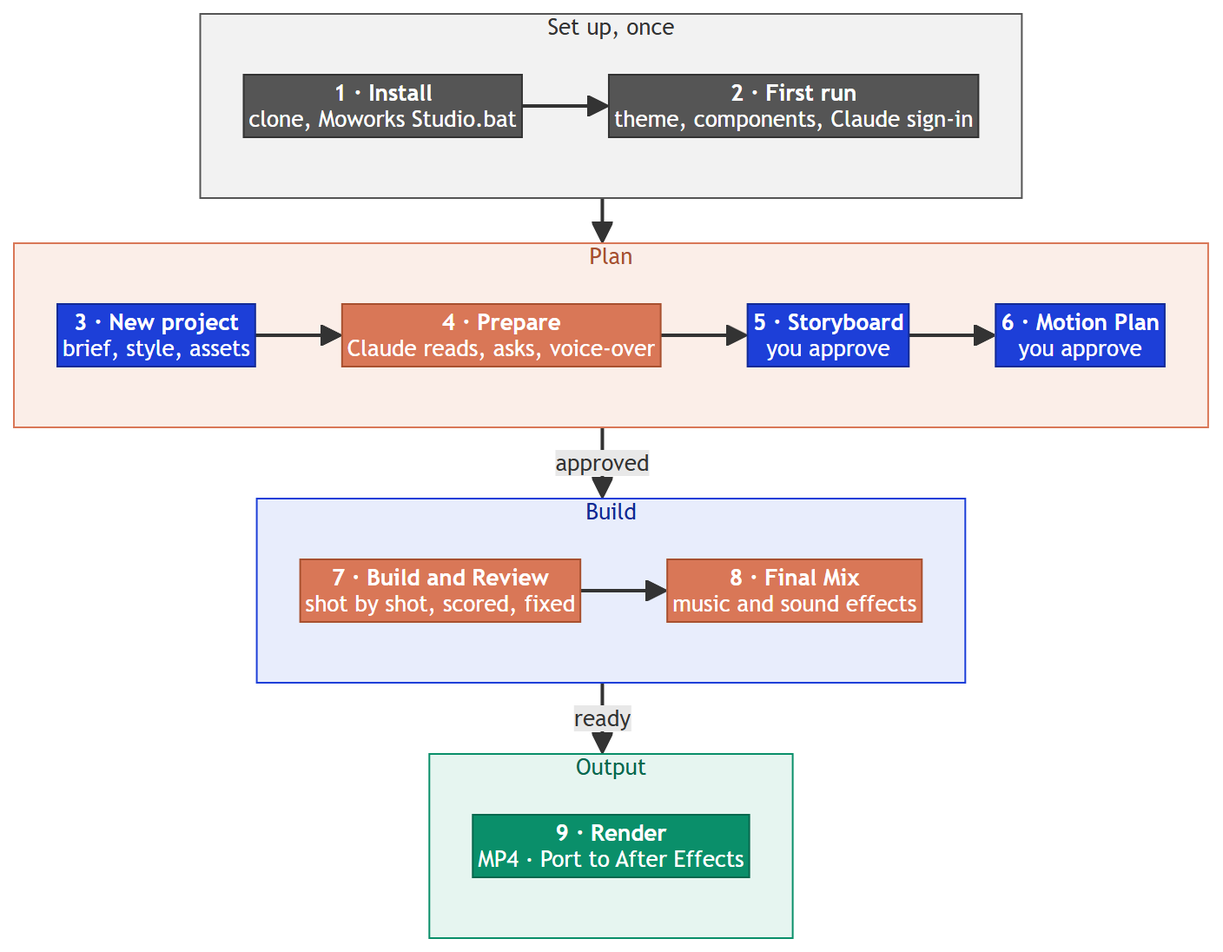
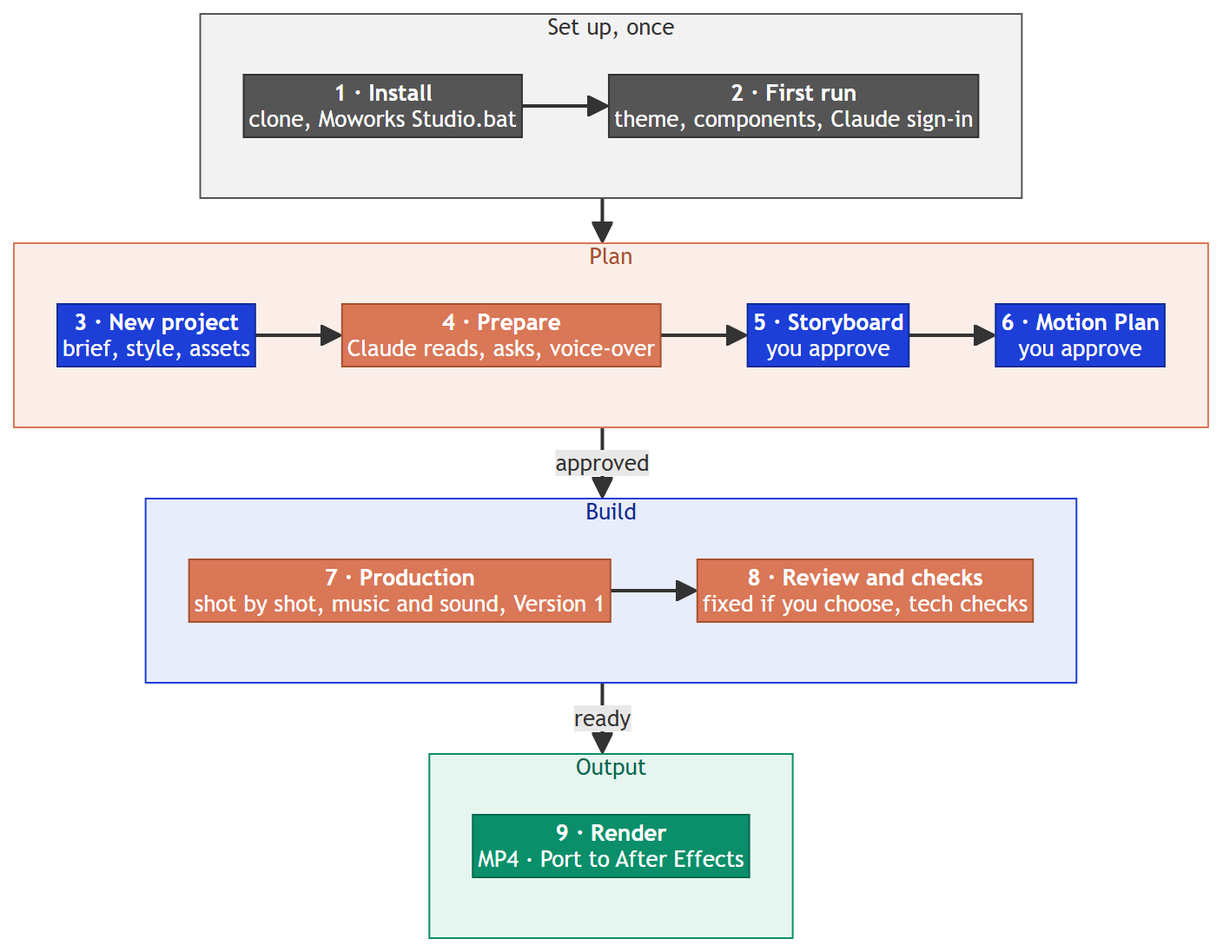
Bug fixes

Changed region(s): [[0.1562, 0.5584, 0.5, 0.6825], [0.5312, 0.5584, 0.8438, 0.6825]]

diff --git a/docs/README.vi.md b/docs/README.vi.md
@@ -8,8 +8,8 @@
   <img src="https://img.shields.io/badge/version-0.8.214.3-1d3fd8" alt="version 0.8.214.3">
   <img src="https://img.shields.io/badge/Claude-Opus_5.5_·_Sonnet_5.5-d97757" alt="Claude Opus 5.5 và Sonnet 5.5">
   <img src="https://img.shields.io/badge/platform-Windows%2010%20%7C%2011-555" alt="Windows 10 | 11">
-  <img src="https://img.shields.io/badge/film_styles-126_từ_7_tác_giả-0a7" alt="126 film style từ 7 tác giả">
-  <img src="https://img.shields.io/badge/library-895_motion_·_448_block_·_168_thuật_ngữ-0a7" alt="Motion Library: 895 motion, 448 block, 168 thuật ngữ chuyển động">
+  <img src="https://img.shields.io/badge/film_styles-127_từ_7_tác_giả-0a7" alt="127 film style từ 7 tác giả">
+  <img src="https://img.shields.io/badge/library-889_motion_·_454_block_·_168_thuật_ngữ-0a7" alt="Motion Library: 889 motion, 454 block, 168 thuật ngữ chuyển động">
   <img src="https://img.shields.io/badge/export-MP4_·_MOV_·_WebM_·_After_Effects-8a2be2" alt="MP4, MOV, WebM và After Effects">
 </p>
 
@@ -29,9 +29,9 @@
 <p align="center"><sub>Phim mẫu làm bằng app. Hàng trên: ra mắt chiếc đèn (Launch · style của HeyGen) · đồng hồ báo thức (Character · style của HeyGen) · đồng hồ mặt trời (Explainer · style của HeyGen).<br>Hàng dưới: khu vườn qua những con số (Data · style của HeyGen) · trạm xe buýt (Isometric Picture Book · style của Lemomo) · thành phố neon (Music video · style của HeyGen). Xem thêm ở <a href="#làm-bằng-app">Làm bằng app</a>.</sub></p>
 
 Moworks Studio là ứng dụng máy tính để làm phim motion graphic cùng Claude. Bạn viết brief, đưa chất liệu (thiết kế, PSD, deck, ảnh,
-nhạc, kịch bản lời đọc) và chọn một trong 126 film style. Claude lên kế hoạch cho phim, vẽ storyboard để bạn duyệt và viết Motion Plan
-bằng số liệu; sau đó app dựng phim từng shot bằng code, tự review và chấm điểm, trộn nhạc và hiệu ứng âm thanh, kiểm tra kỹ thuật và xuất
-phim ra MP4, MOV hoặc WebM. Phim ở phần lớn các style còn xuất được sang After Effects thành layer chỉnh sửa được.
+nhạc, kịch bản lời đọc) và chọn một trong 127 film style. Claude lên kế hoạch cho phim, vẽ storyboard để bạn duyệt và viết Motion Plan
+bằng số liệu; sau đó app dựng phim từng shot bằng code, thêm nhạc và hiệu ứng âm thanh và đưa bạn Version 1 để xem. Claude review và sửa
+nếu bạn chọn, app kiểm tra kỹ thuật rồi xuất phim ra MP4, MOV hoặc WebM. Phim ở phần lớn các style còn xuất được sang After Effects thành layer chỉnh sửa được.
 
 **Sửa phim ngay trên khung hình.** Trong Editor, bấm vào chữ bất kỳ trên khung hình để sửa tại chỗ, cả font, cỡ chữ và màu (mỗi lần sửa
 là một bước có thể hoàn tác). Hoặc bấm **Pin a note** (N), chấm một điểm hay kéo một khung trên hình rồi ghi cần sửa gì ở đó: ghi chú
@@ -66,7 +66,7 @@ Phần render dùng engine mã nguồn mở HyperFrames, nguyên như bản phá
 Mọi film style đi theo cùng một quy trình. Mỗi bước để lại một file trong dự án; bước sau chỉ chạy khi bước trước đã xong hoặc được bạn
 bỏ qua.
 
-<p align="center"><img src="images/diagram-workflow.vi.png" width="560" alt="Quy trình: Cài đặt một lần (1 Cài app, 2 Lần đầu mở) → Lên kế hoạch (3 New project, 4 Prepare, 5 Storyboard bạn duyệt, 6 Motion Plan bạn duyệt) → Dựng phim (7 Build và Review, 8 Final Mix) → Thành phẩm (9 Render, MP4 hoặc Port to After Effects)"></p>
+<p align="center"><img src="images/diagram-workflow.vi.png" width="560" alt="Quy trình: Cài đặt một lần (1 Cài app, 2 Lần đầu mở) → Lên kế hoạch (3 New project, 4 Prepare, 5 Storyboard bạn duyệt, 6 Motion Plan bạn duyệt) → Dựng phim (7 Production, 8 Review and checks) → Thành phẩm (9 Render, MP4 hoặc Port to After Effects)"></p>
 
 Màu: xám = cài đặt · cam = Claude và app thực hiện · xanh dương = bạn viết, chọn hoặc duyệt · xanh lá = thành phẩm.
 
@@ -74,18 +74,19 @@ Màu: xám = cài đặt · cam = Claude và app thực hiện · xanh dương =
 |---|---|---|
 | **Brief** | New project: tiêu đề, film style, Brand Kit, nhân vật, định dạng (khổ hình, số khung hình mỗi giây, độ dài), model Claude và mức effort, brief và chất liệu của bạn | viết và chọn |
 | **Prepare** | Claude đọc brief và chất liệu, viết `BRIEF.md`. Khi brief và style mâu thuẫn (style phim câm mà có lời đọc, khổ 4:3 so với 4:5…), Claude dừng lại hỏi, kèm các phương án và đề xuất | trả lời |
-| **Lời đọc** *(tuỳ chọn)* | ElevenLabs, hoặc Kokoro miễn phí ngay trên máy (không có tiếng Việt), đọc kịch bản; Whisper canh thời gian từng chữ để shot rơi đúng lời (tải thêm tuỳ chọn, app đề xuất ở lần đầu) | chọn giọng |
+| **Lời đọc** *(tuỳ chọn)* | ElevenLabs, hoặc Kokoro miễn phí ngay trên máy (không có tiếng Việt), đọc kịch bản; Whisper canh thời gian từng chữ để shot rơi đúng lời | chọn giọng |
 | **Storyboard** | Một phương án storyboard vẽ thành bảng, từng shot, ghi lý do của từng shot (thêm phương án khi bạn yêu cầu) | duyệt hoặc góp ý |
-| **Motion Plan** | Chuyển động của từng shot bằng số: thời điểm, quãng đường, ease, mốc âm thanh. Hộp duyệt cho biết thời gian dựng và lượng dùng Claude ước tính | duyệt và dựng |
-| **Build** | Claude dựng phim bằng code, từng shot; mỗi shot được lint và kiểm tra ngay khi xong | theo dõi |
-| **Review** | Claude tự xem phim của mình, chấm điểm trên 10 và sửa những gì tìm thấy, qua nhiều vòng | đọc điểm |
-| **Final Mix** | Nhạc (3 bài miễn phí từ Mixkit để chọn, hoặc nhạc của bạn) và hiệu ứng âm thanh đặt theo hình, trộn về −16 LUFS | chọn |
-| **Tech checks** | Kiểm độ tương phản, chữ chồng nhau, khung đứng hình, âm lượng và file, báo bằng lời dễ hiểu | đọc |
+| **Motion Plan** | Chuyển động của từng shot bằng số: thời điểm, quãng đường, ease, mốc âm thanh. Hộp duyệt cho biết thời gian dựng ước tính | duyệt và dựng |
+| **Production** | Claude dựng phim bằng code, từng shot; mỗi shot được lint và kiểm tra ngay khi xong. Nhạc (3 bài miễn phí từ Mixkit để chọn, hoặc nhạc của bạn) và hiệu ứng âm thanh đặt theo hình, trộn về −16 LUFS. Bạn nhận **Version 1** đã render để xem | theo dõi |
+| **Review and checks** | Một câu hỏi: **Fix mistakes only**, **Fix mistakes and improve it** (Claude tự xem phim, chấm điểm trên 10 và sửa những gì tìm thấy, qua nhiều vòng) hoặc **No, I'm happy with it**. Tech checks báo độ tương phản, chữ chồng nhau, khung đứng hình, âm lượng và file bằng lời dễ hiểu | chọn và đọc |
 | **Render** | MP4 (H.264: Standard cho web và mạng xã hội, hoặc High), MOV (QuickTime) hoặc WebM, kèm một bản Smooth để phát mượt trong Editor | render |
 | **After Effects** | **Port to After Effects** dựng project AE với text layer và shape layer thật ở những style cho phép | port |
 
 **Editor** phát phim đúng từng khung hình như khi render: danh sách shot và quy trình ở bên trái, timeline dưới khung hình, Claude ở
 cột chat bên phải. Bấm vào một phần tử trong phim để Claude nhắm vào nó, hoặc tự sửa chữ của nó bằng tay.
+
+Trên timeline, Narration, SFX và Music mỗi lane có một thanh âm lượng, kéo là nghe ngay, và **Ctrl+Z** trả lại tiếng vừa kéo hoặc vừa xoá.
+**Music & Sound** đổi nhạc và hiệu ứng âm thanh, còn **Balance the sound again** đưa mọi mức tiếng về theo luật của app.
 
 <p align="center"><img src="images/desk-editor.jpg" alt="Editor (The Desk): shot và quy trình bên trái, phim trong trình phát, timeline, và Claude thuật lại từng bước bên phải"><br><sub>Editor (The Desk): shot và quy trình bên trái, phim trong trình phát, timeline, và Claude thuật lại từng bước bên phải</sub></p>
 
@@ -117,7 +118,7 @@ Appearance.
 <td width="50%" valign="top"><img src="images/studio-new-project.jpg" alt="The Studio · New project"><br><sub>The Studio · New project</sub></td>
 </tr>
 <tr>
-<td width="50%" valign="top"><img src="images/desk-film-styles.jpg" alt="The Desk · Film Styles, 126 style theo tác giả"><br><sub>The Desk · Film Styles, 126 style theo tác giả</sub></td>
+<td width="50%" valign="top"><img src="images/desk-film-styles.jpg" alt="The Desk · Film Styles, theo tác giả"><br><sub>The Desk · Film Styles, theo tác giả</sub></td>
 <td width="50%" valign="top"><img src="images/studio-film-styles.jpg" alt="The Studio · Film Styles thành từng thùng đĩa theo tác giả"><br><sub>The Studio · Film Styles thành từng thùng đĩa theo tác giả</sub></td>
 </tr>
 </table>
@@ -130,6 +131,7 @@ giấy phép và đúng commit nguồn. File style của bên thứ ba được 
 | Bộ | Tác giả | Số style | Giấy phép | Nguồn |
 |---|---|---|---|---|
 | **General Style** | Moworks | 1 | bộ luật riêng của app | viết lại cho app từ quy trình của bộ kit Moworks Motion |
+| **Map Explainer** | Moworks | 1: bản đồ giấy và mặt đất thật dưới một camera liền, bút đỏ vẽ lên trên | bộ luật riêng của app, dữ liệu bản đồ từ [Natural Earth](https://www.naturalearthdata.com) và [world-atlas](https://github.com/topojson/world-atlas/tree/v2.0.2), ảnh vệ tinh từ [EOX](https://cloudless.eox.at) (CC BY 4.0) | làm riêng cho app; mọi nguồn ở [THIRD-PARTY.md](THIRD-PARTY.md) |
 | **HyperFrames** | HeyGen | 8: Slideshow và bảy loại phim trong skill của HyperFrames (Explainer, Launch, Music video, Data, Vertical, 3D, Character) | Apache-2.0 | [heygen-com/hyperframes @ `4719543`](https://github.com/heygen-com/hyperframes/tree/4719543e972548a261b8354f0a8dada479ae5d93/skills) (v0.8.214) |
 | **Lemo-Opuscar** | Lemomo (LemoLab) | 66 style phim dựng bằng code (các thời kỳ điện ảnh, tư liệu, editorial, dữ liệu…; Memphis Diorama do EianLu đóng góp) | MIT; ảnh mẫu CC BY 4.0 | [lemomo-ai/lemo-opuscar @ `ea34ff9`](https://github.com/lemomo-ai/lemo-opuscar/tree/ea34ff9546f675f9fd65a3c84e869a1da7471ad7) |
 | **mg-styles-15** | Vincentwei1021 | 14 style motion design (style 3D dựng bằng Blender không có trong app) | MIT | [Vincentwei1021/mg-styles-15 @ `49052d8`](https://github.com/Vincentwei1021/mg-styles-15/tree/49052d80bfaf9fa8412cc9710530e5e95a3b8d8c) |
@@ -181,9 +183,9 @@ Mọi style còn theo hai bộ luật chung của app: **phim luôn sống độ
 | **Projects** | Các phim của bạn, mới nhất ở trên; mỗi phim mở trong Editor |
 | **Brand Kits** | Màu, font và các thành phần của một thương hiệu, áp cho cả phim. Có sẵn 13 frame preset của HyperFrames; bạn tự tạo Brand Kit từ cả thư mục của thương hiệu (PDF, PowerPoint, ảnh, font, AI, PSD, ZIP) rồi kiểm lại trước khi dùng; phim làm từ kit có sẵn logo và font của kit |
 | **Film Styles** | Thư viện style ở trên, kèm phim mẫu, ghi công và huy hiệu AE |
-| **Motion Library** | Thư viện riêng của studio: Motions (895), Blocks (448 block và component) và Vocabulary (168 thuật ngữ chuyển động), xếp theo loại và nhóm. Giấy phép của các nguồn được dùng nằm trong [THIRD-PARTY.md](THIRD-PARTY.md) |
+| **Motion Library** | Thư viện riêng của studio: Motions (889), Blocks (454 block và component) và Vocabulary (168 thuật ngữ chuyển động), xếp theo loại và nhóm. Giấy phép của các nguồn được dùng nằm trong [THIRD-PARTY.md](THIRD-PARTY.md) |
 | **Characters** | Nhân vật của dự án: vẽ bằng Character maker, hoặc lấy từ các rig nhân vật của tác giả Anidoodle |
-| **Settings** | General (tài khoản Claude, thư mục dự án, giao diện, lời đọc, render), Director (model và effort của Claude), System (thành phần và tình trạng máy), Update (cả Uninstall) |
+| **Settings** | General (tài khoản Claude, thư mục dự án, giao diện, render), Director (model và effort của Claude), System (thành phần, lời đọc, backup và tình trạng máy), Update (cả Uninstall) |
 
 <table>
 <tr>
@@ -255,16 +257,17 @@ Một phim 30 giây, từ brief tới MP4:
    marathon Olympic 1904, khổ 4:5, lời đọc tiếng Việt"). Thêm Brand Kit, nhân vật và chất liệu nếu có. Bấm **Create project**.
 2. **Prepare.** Claude đọc hết và có thể dừng lại hỏi ("Style này là phim câm; giữ lời đọc hay dùng thẻ chữ?"). Trả lời trong chat; Claude
    viết `BRIEF.md`.
-3. **Lời đọc.** Màn Voice mở sẵn kịch bản. Chọn giọng và tạo lời đọc; Whisper canh thời gian từng chữ tự động (tải thêm tuỳ
-   chọn, khoảng 1,7 GB, app đề xuất ở lần đầu) và storyboard tự bắt đầu.
+3. **Lời đọc.** Màn Voice mở sẵn kịch bản. Chọn giọng và tạo lời đọc; Whisper canh thời gian từng chữ tự động
+   và storyboard tự bắt đầu.
 4. **Storyboard.** Xem bảng. Góp ý một khung (`@Panel_3: cho người chạy nhỏ lại`) hoặc duyệt.
-5. **Motion Plan.** Kiểm thời gian và chuyển động của từng shot. **Approve and build** cho biết thời gian và lượng dùng ước tính.
-6. **Build, Review, Final Mix, Tech checks** chạy nối tiếp nhau. Ô quy trình cho biết bước nào đang chạy và còn bao lâu; chat cho biết
+5. **Motion Plan.** Kiểm thời gian và chuyển động của từng shot. **Approve and build** cho biết thời gian ước tính.
+6. **Production** tự chạy: dựng phim, nhạc và âm thanh, rồi Version 1. Ô quy trình cho biết bước nào đang chạy và còn bao lâu; chat cho biết
    Claude đang làm gì.
-7. **Play** phim trong Editor. Nhờ Claude sửa trong chat (bấm vào một phần tử trước để chỉ đúng chỗ), hoặc tự sửa chữ bằng tay.
-8. **Render** MP4, và **Port to After Effects** nếu huy hiệu của style cho phép.
+7. **Xem Version 1** và trả lời một câu: Claude sửa lỗi, sửa và làm hay hơn, hay giữ nguyên?
+8. **Play** phim trong Editor. Nhờ Claude sửa trong chat (bấm vào một phần tử trước để chỉ đúng chỗ), hoặc tự sửa chữ bằng tay.
+9. **Render** MP4, và **Port to After Effects** nếu huy hiệu của style cho phép.
 
-<p align="center"><img src="images/studio-editor.jpg" alt="Một phim đã xong trong Editor (The Studio): năm bước dọc phía trên, ghi chú của Claude từ Review và Final Mix bên phải"><br><sub>Một phim đã xong trong Editor (The Studio): năm bước dọc phía trên, ghi chú của Claude từ Review và Final Mix bên phải</sub></p>
+<p align="center"><img src="images/studio-editor.jpg" alt="Một phim đã xong trong Editor (The Studio): các bước dọc phía trên, ghi chú của Claude bên phải"><br><sub>Một phim đã xong trong Editor (The Studio): các bước dọc phía trên, ghi chú của Claude bên phải</sub></p>
 
 Để tham khảo: một phim 34 giây ở một style Lemo-Opuscar mất 1 giờ 17 phút từ lúc Create tới MP4 hoàn chỉnh, trong đó 44 phút tính từ
 **Approve and build**; lượng dùng Claude cho cả phim tương đương khoảng 13 USD theo giá API.
@@ -329,7 +332,7 @@ Các giới hạn đã biết nằm ở [KNOWN-ISSUES.md](KNOWN-ISSUES.md).
   tải chúng lên.
 - **Backup của app:** tắt, trừ khi một thư mục backup (`storage.backupRoot`) được đặt trong cài đặt cục bộ của máy này.
 - **Không telemetry.** Telemetry và kiểm tra cập nhật của HyperFrames bị tắt; app không gửi dữ liệu sử dụng. Truy cập mạng chỉ dành cho các
-  dịch vụ bạn dùng (Claude, dịch vụ giọng đọc, Mixkit và Openverse khi bạn cần nhạc hoặc hiệu ứng âm thanh, và việc tải thành phần).
+  dịch vụ bạn dùng (Claude, dịch vụ giọng đọc, Mixkit và Openverse khi bạn cần nhạc hoặc hiệu ứng âm thanh, EOX khi phim Map Explainer lấy ảnh vệ tinh, và việc tải thành phần).
 
 ## Dành cho người phát triển
 

diff --git a/docs/README.md b/docs/README.md
@@ -8,8 +8,8 @@
   <img src="https://img.shields.io/badge/version-0.8.214.3-1d3fd8" alt="version 0.8.214.3">
   <img src="https://img.shields.io/badge/Claude-Opus_5.5_·_Sonnet_5.5-d97757" alt="Claude Opus 5.5 and Sonnet 5.5">
   <img src="https://img.shields.io/badge/platform-Windows%2010%20%7C%2011-555" alt="Windows 10 | 11">
-  <img src="https://img.shields.io/badge/film_styles-126_from_7_authors-0a7" alt="126 film styles from 7 authors">
-  <img src="https://img.shields.io/badge/library-895_motions_·_448_blocks_·_168_terms-0a7" alt="Motion Library: 895 motions, 448 blocks, 168 motion terms">
+  <img src="https://img.shields.io/badge/film_styles-127_from_7_authors-0a7" alt="127 film styles from 7 authors">
+  <img src="https://img.shields.io/badge/library-889_motions_·_454_blocks_·_168_terms-0a7" alt="Motion Library: 889 motions, 454 blocks, 168 motion terms">
   <img src="https://img.shields.io/badge/export-MP4_·_MOV_·_WebM_·_After_Effects-8a2be2" alt="MP4, MOV, WebM and After Effects">
 </p>
 
@@ -29,9 +29,9 @@
 <p align="center"><sub>Demo films made in the app. Top: a lamp launch (Launch · style by HeyGen) · an alarm clock (Character · style by HeyGen) · a sundial (Explainer · style by HeyGen).<br>Bottom: a garden in numbers (Data · style by HeyGen) · a bus stop (Isometric Picture Book · style by Lemomo) · a neon city (Music video · style by HeyGen). More in <a href="#made-in-the-app">Made in the app</a>.</sub></p>
 
 Moworks Studio is a desktop application for making motion-graphic films with Claude. You write a brief and add your material (artwork,
-PSD, deck, pictures, music, a voice-over script) and choose one of 126 film styles. Claude plans the film, draws a storyboard for you to
-approve and writes a Motion Plan in numbers; then the app builds the film shot by shot in code, reviews and scores it, mixes music and
-sound effects, runs technical checks and renders the film as MP4, MOV or WebM. Films in most styles can also be exported to After
+PSD, deck, pictures, music, a voice-over script) and choose one of 127 film styles. Claude plans the film, draws a storyboard for you to
+approve and writes a Motion Plan in numbers; then the app builds the film shot by shot in code, adds music and sound effects and gives you
+Version 1 to watch. Claude reviews and fixes it if you choose, technical checks run, and the film renders as MP4, MOV or WebM. Films in most styles can also be exported to After
 Effects as editable layers.
 
 **Change the film on the picture itself.** In the Editor, click any words in the frame to edit them on the spot, with their font, size
@@ -67,7 +67,7 @@ mixes the sound and renders. Rendering uses the open-source HyperFrames engine a
 Every film style follows the same pipeline. Each step leaves a file in the project, and nothing moves on until its step is done or you
 skip it.
 
-<p align="center"><img src="images/diagram-workflow.en.png" width="560" alt="Workflow: Set up once (1 Install, 2 First run) → Plan (3 New project, 4 Prepare, 5 Storyboard you approve, 6 Motion Plan you approve) → Build (7 Build and Review, 8 Final Mix) → Output (9 Render, MP4 or Port to After Effects)"></p>
+<p align="center"><img src="images/diagram-workflow.en.png" width="560" alt="Workflow: Set up once (1 Install, 2 First run) → Plan (3 New project, 4 Prepare, 5 Storyboard you approve, 6 Motion Plan you approve) → Build (7 Production, 8 Review and checks) → Output (9 Render, MP4 or Port to After Effects)"></p>
 
 Colours: grey = set-up · orange = Claude and the app · blue = you write, choose or approve · green = output.
 
@@ -75,18 +75,19 @@ Colours: grey = set-up · orange = Claude and the app · blue = you write, choos
 |---|---|---|
 | **Brief** | New project: title, film style, Brand Kit, characters, format (size, frame rate, length), Claude model and effort, the brief and your assets | write and choose |
 | **Prepare** | Claude reads the brief and your assets and writes `BRIEF.md`. When the brief and the style disagree (a silent-film style with a voice-over, 4:3 against 4:5…), it stops and asks, with options and a recommendation | answer |
-| **Voice-over** *(optional)* | ElevenLabs, or Kokoro for free on this computer (no Vietnamese), speaks the script; Whisper times every word so shots land on the words (an optional download, offered the first time) | pick a voice |
+| **Voice-over** *(optional)* | ElevenLabs, or Kokoro for free on this computer (no Vietnamese), speaks the script; Whisper times every word so shots land on the words | pick a voice |
 | **Storyboard** | One storyboard option drawn as a board, shot by shot, with the reason for each shot (another option on request) | approve or comment |
-| **Motion Plan** | Every shot's motion in numbers: timings, distances, easings, sound cues. The approval dialog shows the estimated build time and Claude usage | approve and build |
-| **Build** | Claude builds the film in code, shot by shot; every shot is linted and checked as it lands | watch |
-| **Review** | Claude watches its own film, scores it out of 10 and fixes what it finds, in rounds | read the score |
-| **Final Mix** | Music (three free Mixkit tracks to choose from, or your own) and sound effects placed on the picture, mixed to −16 LUFS | choose |
-| **Tech checks** | Contrast, text overlap, still frames, loudness and file checks, in plain words | read |
+| **Motion Plan** | Every shot's motion in numbers: timings, distances, easings, sound cues. The approval dialog shows the estimated build time | approve and build |
+| **Production** | Claude builds the film in code, shot by shot; every shot is linted and checked as it lands. Music (three free Mixkit tracks to choose from, or your own) and sound effects are placed on the picture and mixed to −16 LUFS. You get **Version 1**, rendered, to watch | watch |
+| **Review and checks** | One question: **Fix mistakes only**, **Fix mistakes and improve it** (Claude watches its own film, scores it out of 10 and fixes what it finds, in rounds) or **No, I'm happy with it**. Tech checks report contrast, text overlap, still frames, loudness and files in plain words | choose and read |
 | **Render** | MP4 (H.264: Standard for web and social, or High), MOV (QuickTime) or WebM, plus a Smooth preview copy for playback in the Editor | render |
 | **After Effects** | **Port to After Effects** builds an AE project with real text and shape layers where the style allows it | port |
 
 The **Editor** plays the film frame by frame as it will render, with the shots and the pipeline on the left, the timeline below the picture
 and Claude in a chat column on the right. Click an element in the film to make it Claude's target, or edit its words by hand.
+
+On the timeline, Narration, SFX and Music each have a level you hear as you drag it, and **Ctrl+Z** brings back a sound you just moved or
+took off. **Music & Sound** changes the music and the effects, and **Balance the sound again** puts every level back by the app's rules.
 
 <p align="center"><img src="images/desk-editor.jpg" alt="The Editor (The Desk): shots and pipeline on the left, the film in the player, the timeline, and Claude's account of each step on the right"><br><sub>The Editor (The Desk): shots and pipeline on the left, the film in the player, the timeline, and Claude's account of each step on the right</sub></p>
 
@@ -117,7 +118,7 @@ The app has two complete themes with the same features; the first start asks whi
 <td width="50%" valign="top"><img src="images/studio-new-project.jpg" alt="The Studio · New project"><br><sub>The Studio · New project</sub></td>
 </tr>
 <tr>
-<td width="50%" valign="top"><img src="images/desk-film-styles.jpg" alt="The Desk · Film Styles, 126 styles by author"><br><sub>The Desk · Film Styles, 126 styles by author</sub></td>
+<td width="50%" valign="top"><img src="images/desk-film-styles.jpg" alt="The Desk · Film Styles, by author"><br><sub>The Desk · Film Styles, by author</sub></td>
 <td width="50%" valign="top"><img src="images/studio-film-styles.jpg" alt="The Studio · Film Styles as crates by author"><br><sub>The Studio · Film Styles as crates by author</sub></td>
 </tr>
 </table>
@@ -130,6 +131,7 @@ licence and the exact source commit. Third-party style files are used as their a
 | Set | Author | Styles | Licence | Source |
 |---|---|---|---|---|
 | **General Style** | Moworks | 1 | the app's own rules | rewritten for the app from the Moworks Motion kit's process |
+| **Map Explainer** | Moworks | 1: a paper map and the real ground under one continuous camera, a red marker on top | the app's own rules, map data from [Natural Earth](https://www.naturalearthdata.com) and [world-atlas](https://github.com/topojson/world-atlas/tree/v2.0.2), satellite pictures from [EOX](https://cloudless.eox.at) (CC BY 4.0) | made for the app; every source in [THIRD-PARTY.md](THIRD-PARTY.md) |
 | **HyperFrames** | HeyGen | 8: Slideshow and the seven film types of HyperFrames' skill (Explainer, Launch, Music video, Data, Vertical, 3D, Character) | Apache-2.0 | [heygen-com/hyperframes @ `4719543`](https://github.com/heygen-com/hyperframes/tree/4719543e972548a261b8354f0a8dada479ae5d93/skills) (v0.8.214) |
 | **Lemo-Opuscar** | Lemomo (LemoLab) | 66 code-built film styles (cinema eras, documentary, editorial, data…; Memphis Diorama contributed by EianLu) | MIT; demo stills CC BY 4.0 | [lemomo-ai/lemo-opuscar @ `ea34ff9`](https://github.com/lemomo-ai/lemo-opuscar/tree/ea34ff9546f675f9fd65a3c84e869a1da7471ad7) |
 | **mg-styles-15** | Vincentwei1021 | 14 motion-design styles (the Blender-based 3D style is not offered) | MIT | [Vincentwei1021/mg-styles-15 @ `49052d8`](https://github.com/Vincentwei1021/mg-styles-15/tree/49052d80bfaf9fa8412cc9710530e5e95a3b8d8c) |
@@ -181,9 +183,9 @@ named under each still.
 | **Projects** | Your films, newest first; each opens in the Editor |
 | **Brand Kits** | A brand's colours, fonts and components, worn by a whole film. HyperFrames' 13 frame presets ship ready to use; make your own from a brand's whole folder (PDF, PowerPoint, pictures, fonts, AI, PSD, ZIP) and check it before use; a film made with it gets its logos and fonts |
 | **Film Styles** | The gallery above, with demo films, credits and AE badges |
-| **Motion Library** | The studio's own library of Motions (895), Blocks (448 blocks and components) and Vocabulary (168 motion terms), arranged by type and category. The licences of the sources it draws on are in [THIRD-PARTY.md](THIRD-PARTY.md) |
+| **Motion Library** | The studio's own library of Motions (889), Blocks (454 blocks and components) and Vocabulary (168 motion terms), arranged by type and category. The licences of the sources it draws on are in [THIRD-PARTY.md](THIRD-PARTY.md) |
 | **Characters** | The project's characters: drawn with the Character maker, or from the Anidoodle author's own character rigs |
-| **Settings** | General (Claude account, projects folder, appearance, voice-over, render), Director (Claude model and effort), System (components and health), Update (and Uninstall) |
+| **Settings** | General (Claude account, projects folder, appearance, render), Director (Claude model and effort), System (components, voice-over, backups and health), Update (and Uninstall) |
 
 <table>
 <tr>
@@ -256,15 +258,16 @@ A 30-second film, from brief to MP4:
 2. **Prepare.** Claude reads everything and may stop with a question ("The style is a silent film; keep the voice-over or use title
    cards?"). Answer in the chat; Claude writes `BRIEF.md`.
 3. **Voice-over.** The Voice screen opens with the script filled in. Choose a voice and generate it; Whisper times the words automatically
-   (an optional download of about 1.7 GB, offered the first time) and the storyboard starts on its own.
+   and the storyboard starts on its own.
 4. **Storyboard.** Read the board. Comment on a panel (`@Panel_3: make the runner smaller`) or approve.
-5. **Motion Plan.** Check the timings and motion of every shot. **Approve and build** shows the estimated time and usage.
-6. **Build, Review, Final Mix, Tech checks** run one after the other. The pipeline shows what is running and the time left; the chat shows
-   what Claude is doing.
-7. **Play** the film in the Editor. Ask Claude for changes in the chat (click an element first to point at it), or edit its words by hand.
-8. **Render** an MP4, and **Port to After Effects** if the style's badge allows it.
+5. **Motion Plan.** Check the timings and motion of every shot. **Approve and build** shows the estimated time.
+6. **Production** runs by itself: the build, the music and sound, then Version 1. The pipeline shows what is running and the time left; the
+   chat shows what Claude is doing.
+7. **Watch Version 1** and answer one question: should Claude fix mistakes, also improve the film, or leave it as it is?
+8. **Play** the film in the Editor. Ask Claude for changes in the chat (click an element first to point at it), or edit its words by hand.
+9. **Render** an MP4, and **Port to After Effects** if the style's badge allows it.
 
-<p align="center"><img src="images/studio-editor.jpg" alt="A finished film in the Editor (The Studio): the five steps along the top, Claude's notes from Review and Final Mix on the right"><br><sub>A finished film in the Editor (The Studio): the five steps along the top, Claude's notes from Review and Final Mix on the right</sub></p>
+<p align="center"><img src="images/studio-editor.jpg" alt="A finished film in the Editor (The Studio): the steps along the top, Claude's notes on the right"><br><sub>A finished film in the Editor (The Studio): the steps along the top, Claude's notes on the right</sub></p>
 
 As a reference, a 34-second film in a Lemo-Opuscar style took 1 h 17 min from Create to the finished MP4, of which 44 minutes from
 **Approve and build**; Claude usage for the whole film was worth about US$13 at API prices.
@@ -328,7 +331,7 @@ The known limitations are listed in [KNOWN-ISSUES.md](KNOWN-ISSUES.md).
   nothing else uploads them.
 - **App backup:** off unless a backup folder (`storage.backupRoot`) is set in this computer's local settings.
 - **No telemetry.** HyperFrames telemetry and update checks are turned off; the app sends no usage data. Network access is limited to the
-  services you use (Claude, the voice service, Mixkit and Openverse when you ask for music or sound effects, and component downloads).
+  services you use (Claude, the voice service, Mixkit and Openverse when you ask for music or sound effects, EOX for a Map Explainer film's satellite pictures, and component downloads).
 
 ## For developers
 

diff --git a/docs/KNOWN-ISSUES.md b/docs/KNOWN-ISSUES.md
@@ -14,7 +14,7 @@ them.
 | [KI-05](#ki-05-after-effects-gets-some-styles-as-video) | After Effects gets some styles as video | AE port | Limitation |
 | [KI-06](#ki-06-whisper-on-rtx-50-series-cards-not-yet-tried) | Whisper on RTX 50-series cards not yet tried | Voice-over | Open |
 | [KI-07](#ki-07-vietnamese-letters-in-the-studios-mono-labels) | Vietnamese letters in The Studio's mono labels | Interface | Limitation |
-| [KI-08](#ki-08-mixkit-music-is-for-online-use) | Mixkit music is for online use | Final Mix | Limitation |
+| [KI-08](#ki-08-mixkit-music-is-for-online-use) | Mixkit music is for online use | Music & Sound | Limitation |
 
 ---
 
@@ -60,7 +60,7 @@ letters. The Desk is not affected.
 
 ## KI-08: Mixkit music is for online use
 
-**Limitation.** Tracks offered by Final Mix come from Mixkit under the Mixkit Stock Music Free License: web, social media, YouTube,
-podcasts and online ads are allowed; TV / radio broadcast, CD / DVD and games are not. The Final Mix dialog says so, and the film's
+**Limitation.** Tracks offered in Music & Sound come from Mixkit under the Mixkit Stock Music Free License: web, social media, YouTube,
+podcasts and online ads are allowed; TV / radio broadcast, CD / DVD and games are not. The Music & Sound dialog says so, and the film's
 `docs/CREDITS.md` records it.
-**Workaround:** for broadcast work, use your own licensed music (Final Mix accepts your own file).
+**Workaround:** for broadcast work, use your own licensed music (Music & Sound accepts your own file).
